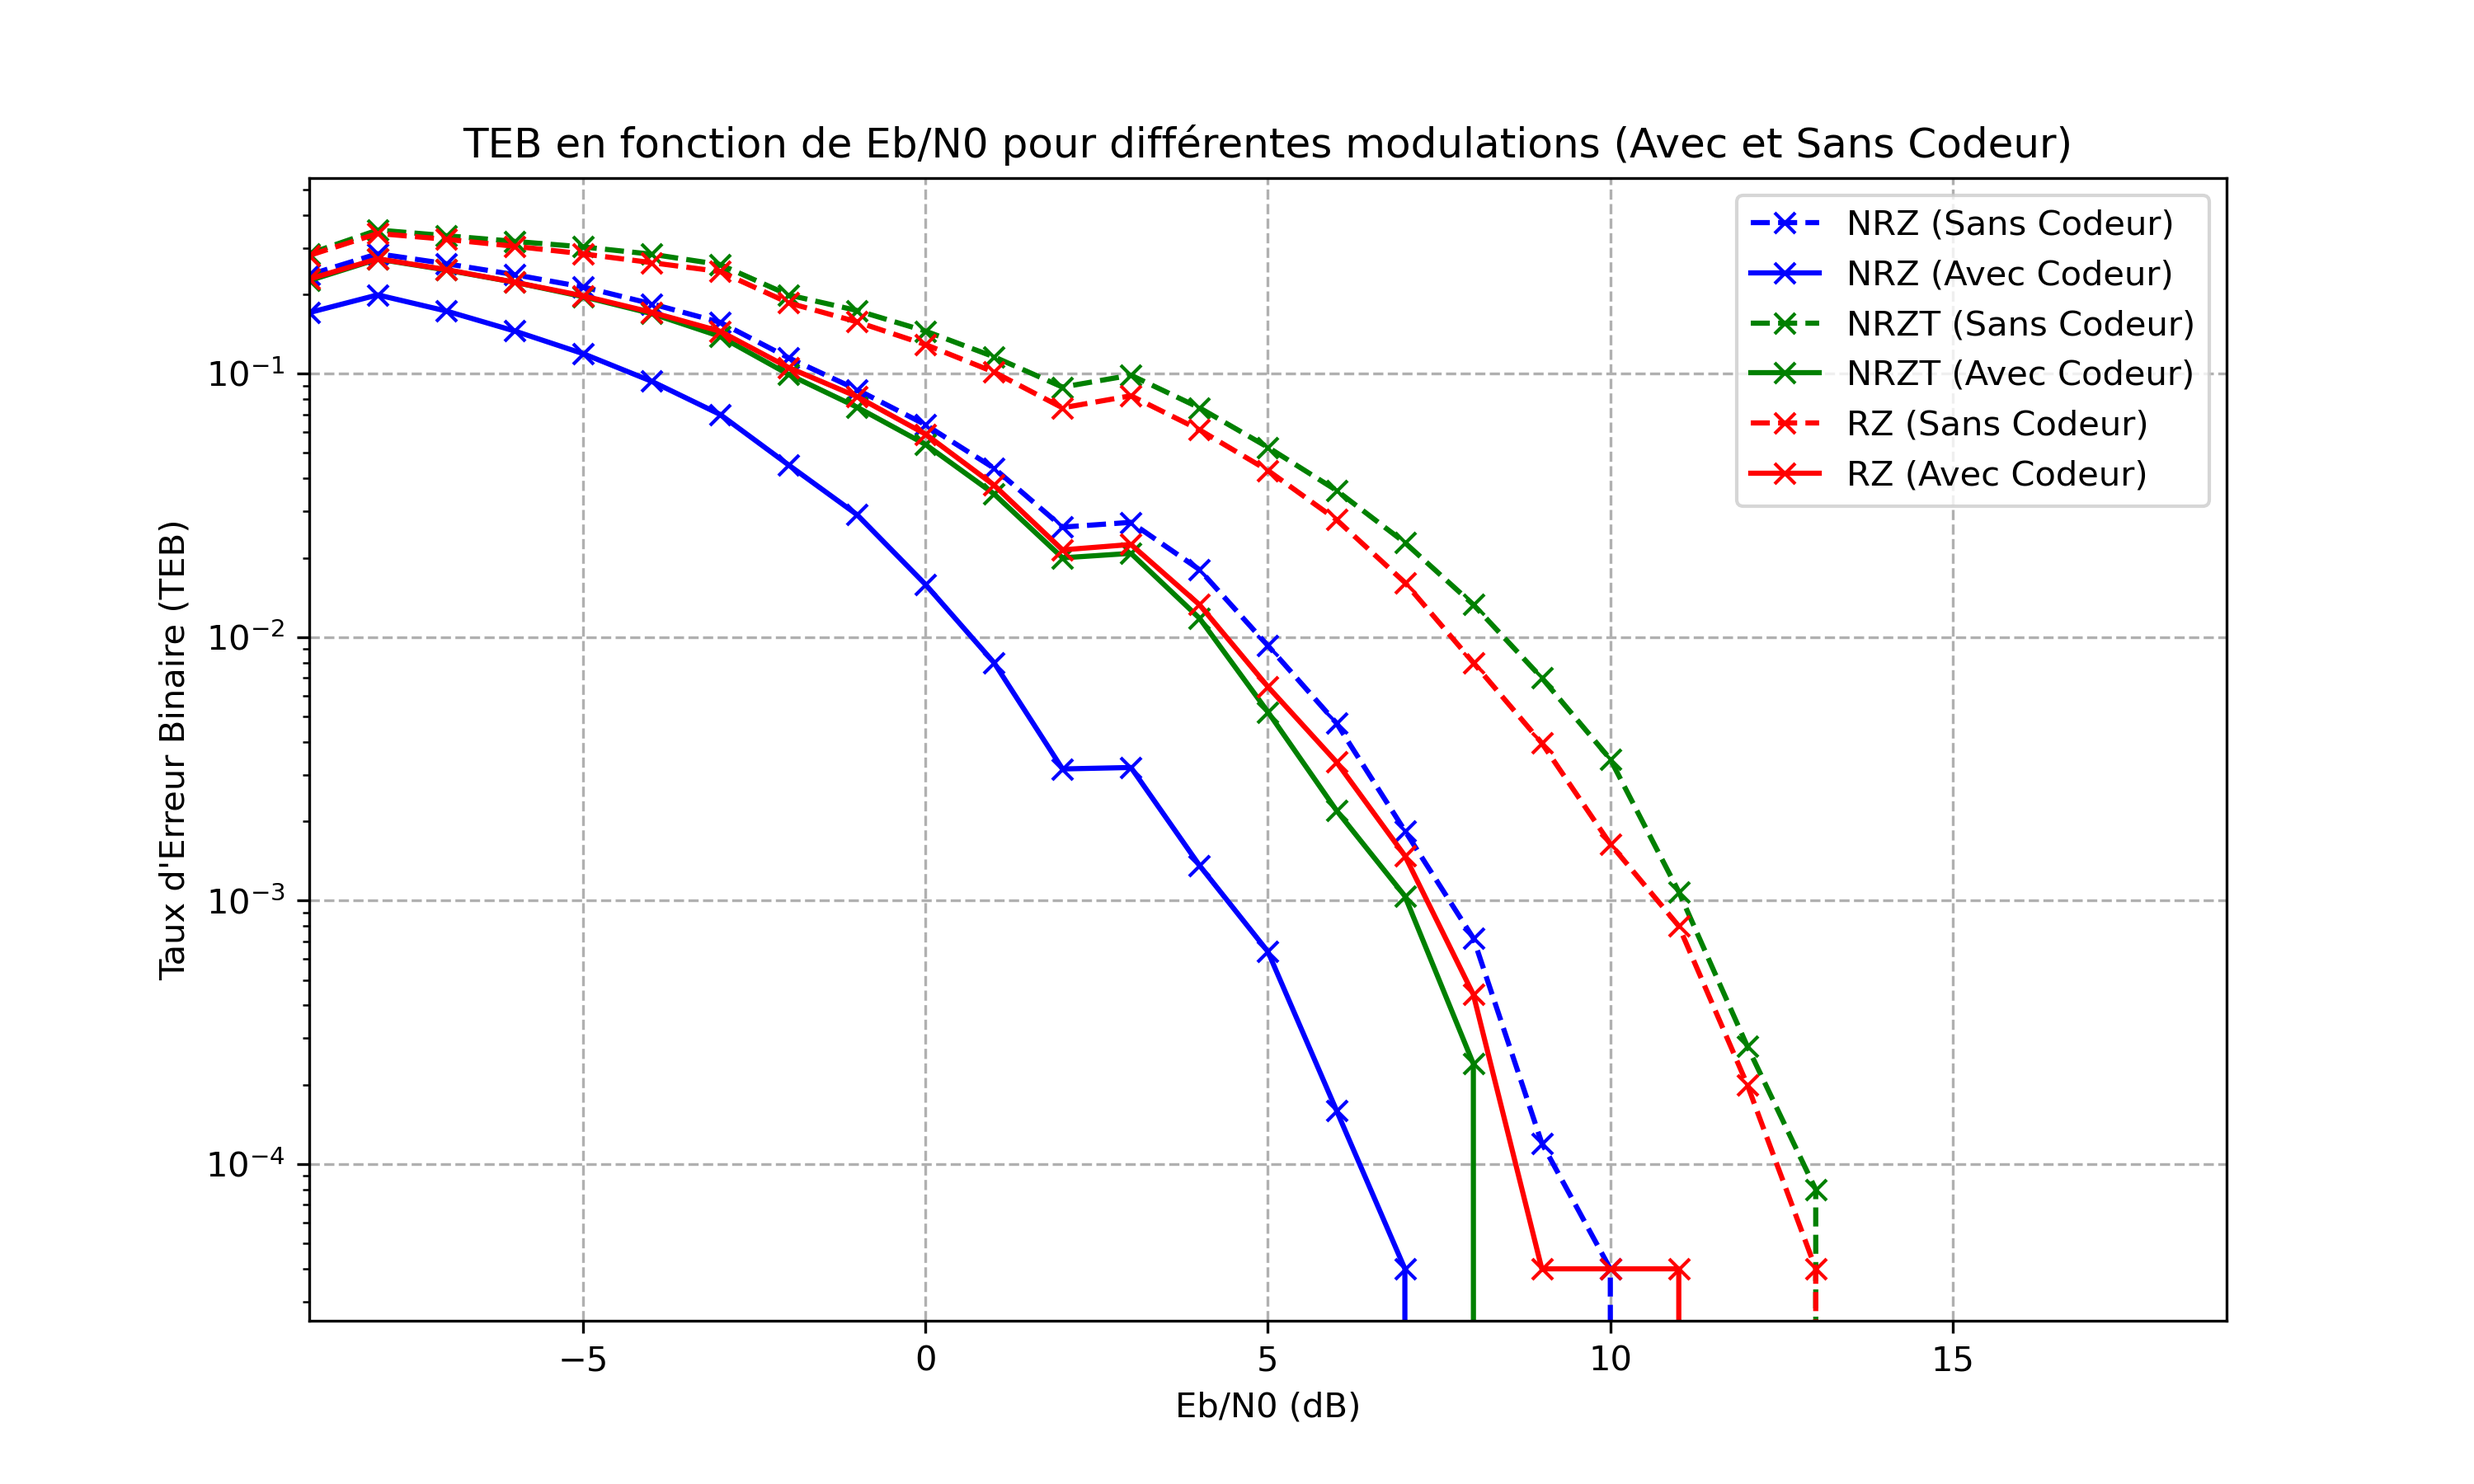
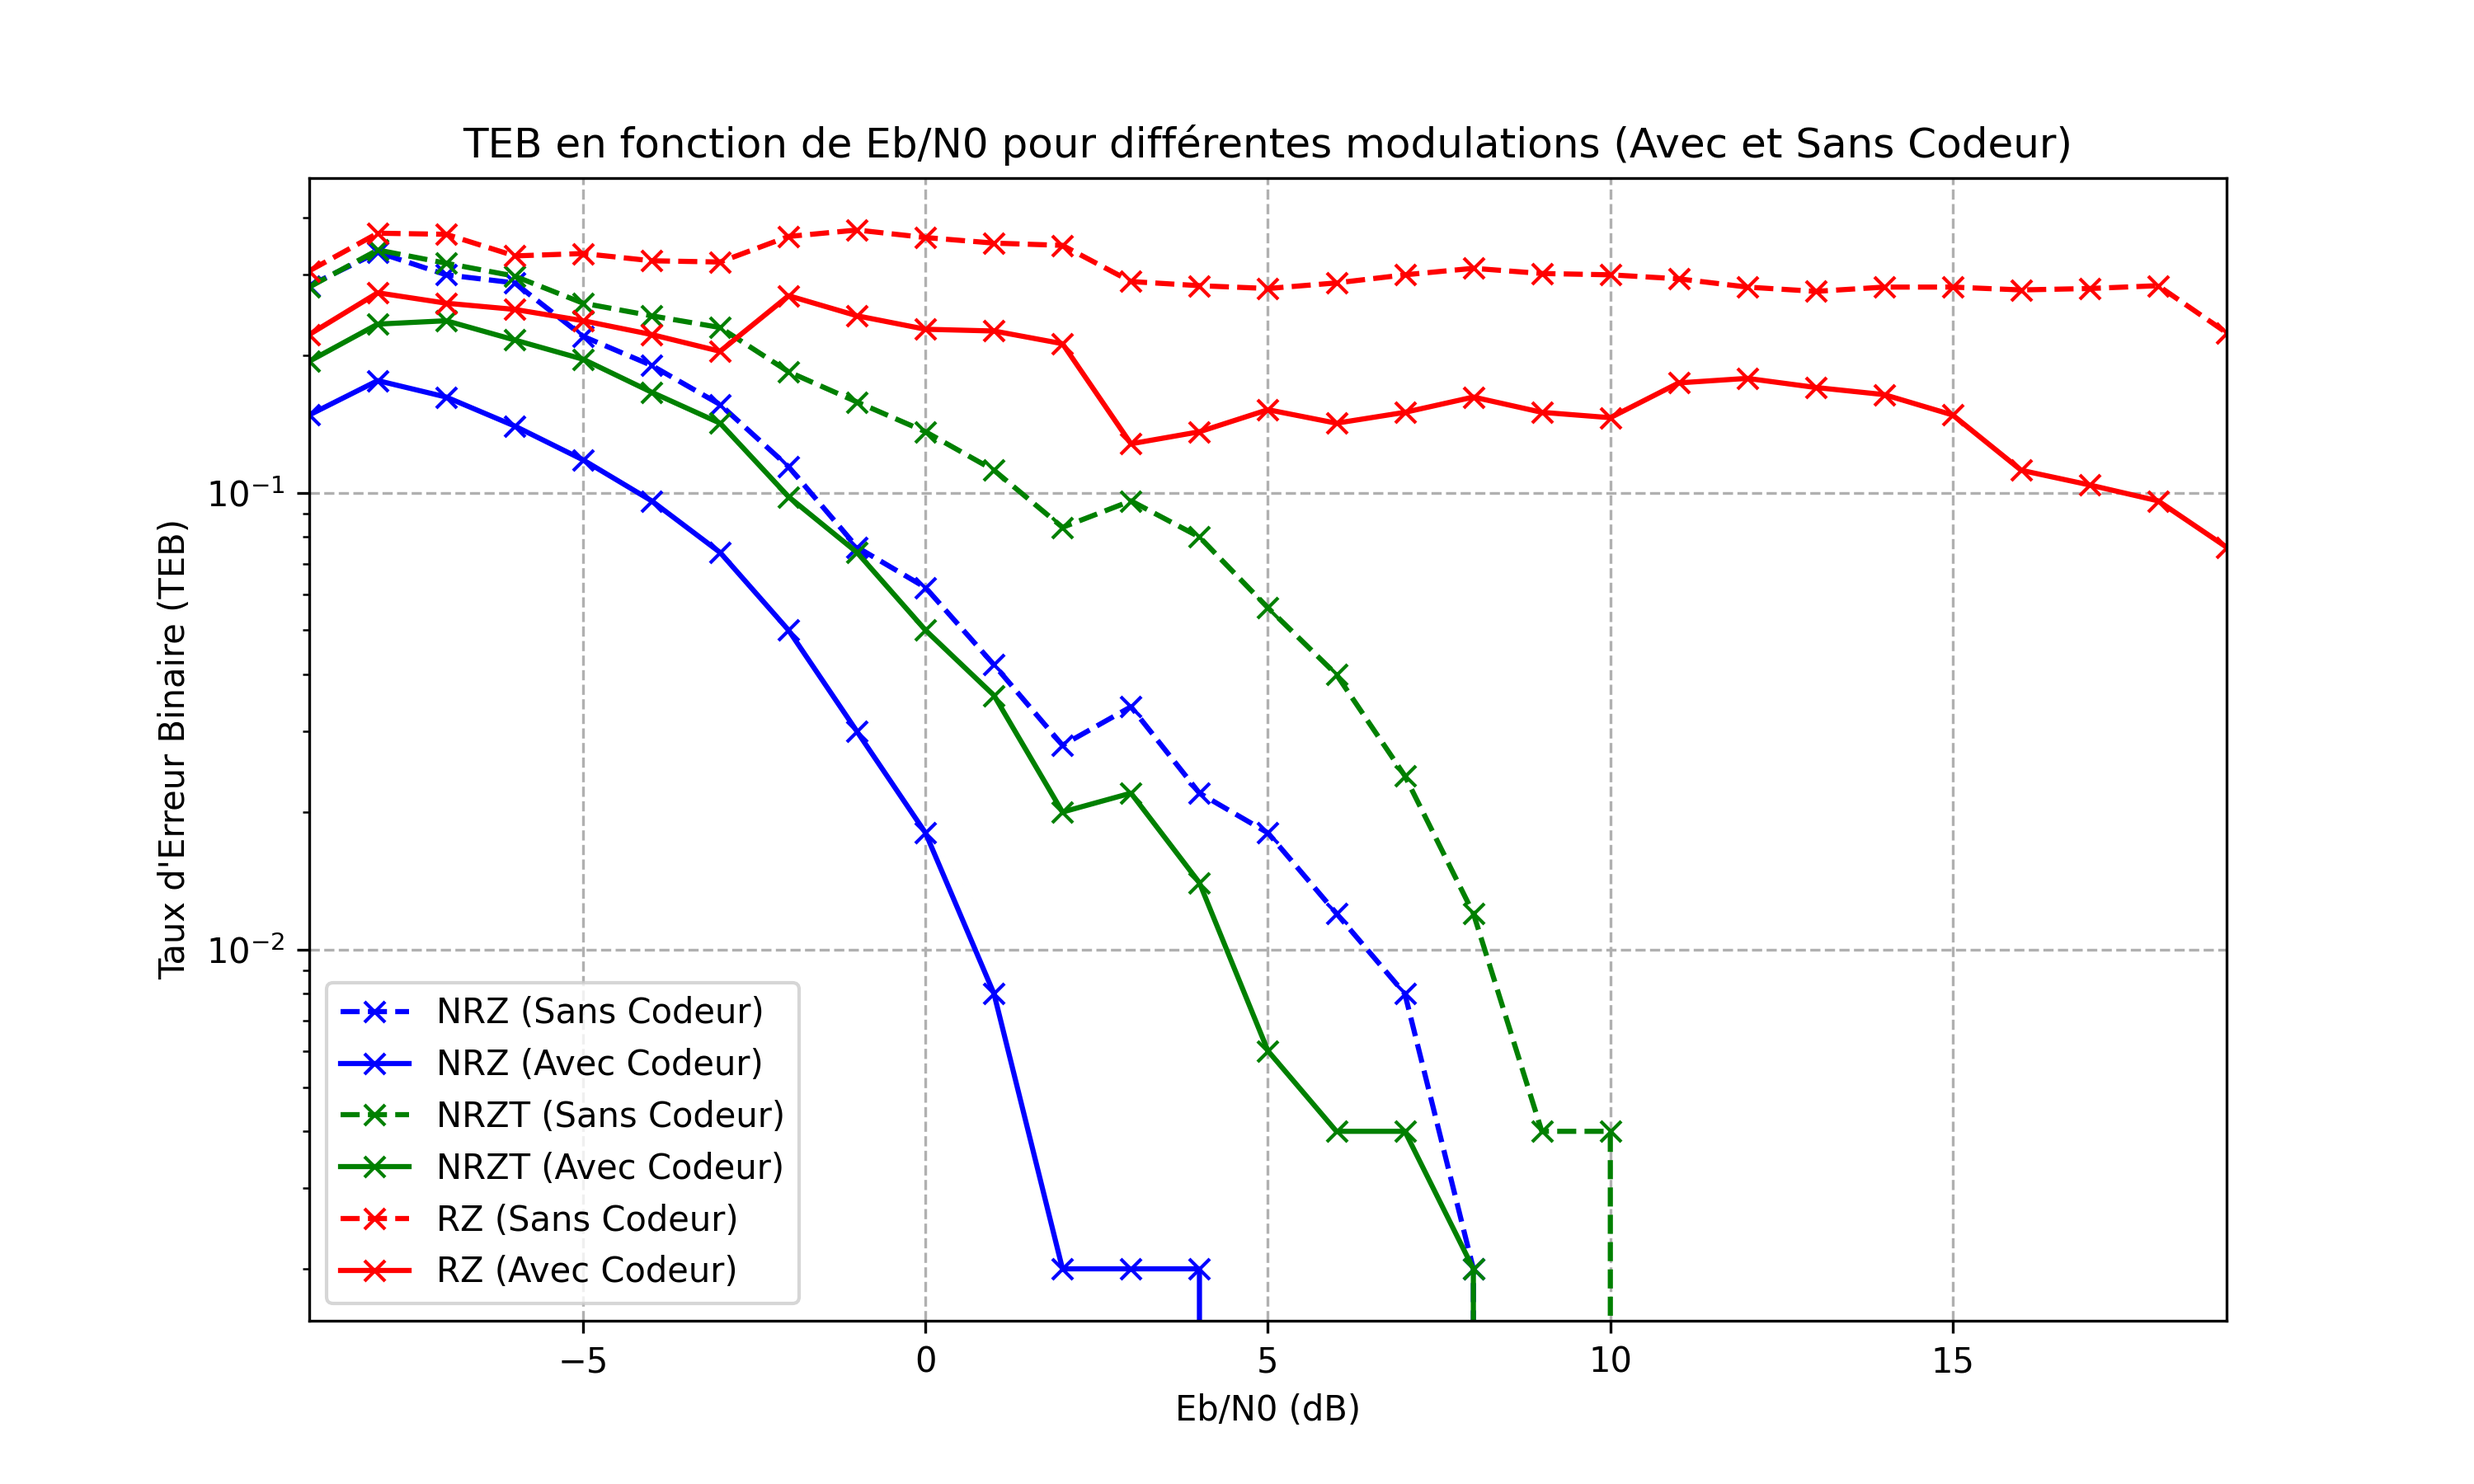
Add mess parameter for SimulateurTEB

diff --git a/src/simulateur/SimulateurTEB.java b/src/simulateur/SimulateurTEB.java
@@ -35,7 +35,7 @@ public class SimulateurTEB {
      * @param fichierCSV Le fichier dans lequel écrire les résultats.
      * @throws Exception Si une erreur survient pendant la simulation.
      */
-    public void genererCourbeTEB(double snrMin, double snrMax, double pasSNR, String fichierCSV) throws Exception {
+    public void genererCourbeTEB(double snrMin, double snrMax, double pasSNR, String fichierCSV, int mess) throws Exception {
         List<Float> tebValuesWithoutCodeur = new ArrayList<>();
         List<Float> tebValuesWithCodeur = new ArrayList<>();
         List<Double> snrValues = new ArrayList<>();
@@ -64,7 +64,7 @@ public class SimulateurTEB {
                     // Simulations without the codeur
                     Future<SimulationResult> futureWithoutCodeur = executorService.submit(() -> {
                         Simulateur simulateur = new Simulateur(new String[] {
-                            "-mess", "5000", // Taille du message
+                            "-mess", String.valueOf(mess), // Taille du message
                             "-form", typeModulation, // Type de modulation
                             "-seed", String.valueOf(simIndex + 1), // Germe différent pour chaque simulation
                             "-nbEch", "30", // Nombre d'échantillons par bit
@@ -89,7 +89,7 @@ public class SimulateurTEB {
                     // Simulations with the codeur
                     Future<SimulationResult> futureWithCodeur = executorService.submit(() -> {
                         Simulateur simulateur = new Simulateur(new String[] {
-                            "-mess", "5000", // Taille du message
+                            "-mess", String.valueOf(mess), // Taille du message
                             "-form", typeModulation, // Type de modulation
                             "-seed", String.valueOf(simIndex + 1), // Germe différent pour chaque simulation
                             "-nbEch", "30", // Nombre d'échantillons par bit
@@ -166,6 +166,7 @@ public class SimulateurTEB {
             double snrMin = -10.0;
             double snrMax = 20.0;
             double pasSNR = 1;
+            int mess = 500;
 
             int nbSimulations = 1; // Nombre de simulations pour chaque SNR
 
@@ -175,9 +176,9 @@ public class SimulateurTEB {
             SimulateurTEB simTEBRZ = new SimulateurTEB("RZ", nbSimulations);
 
             // Générer les courbes TEB pour chaque modulation et enregistrer dans des fichiers CSV
-            simTEBNRZ.genererCourbeTEB(snrMin, snrMax, pasSNR, "resultats/resultats_NRZ.csv");
-            simTEBNRZT.genererCourbeTEB(snrMin, snrMax, pasSNR, "resultats/resultats_NRZT.csv");
-            simTEBRZ.genererCourbeTEB(snrMin, snrMax, pasSNR, "resultats/resultats_RZ.csv");
+            simTEBNRZ.genererCourbeTEB(snrMin, snrMax, pasSNR, "resultats/resultats_NRZ.csv", mess);
+            simTEBNRZT.genererCourbeTEB(snrMin, snrMax, pasSNR, "resultats/resultats_NRZT.csv", mess);
+            simTEBRZ.genererCourbeTEB(snrMin, snrMax, pasSNR, "resultats/resultats_RZ.csv", mess);
 
             System.out.println("Fin de la simulation de la chaîne de transmission");
 
